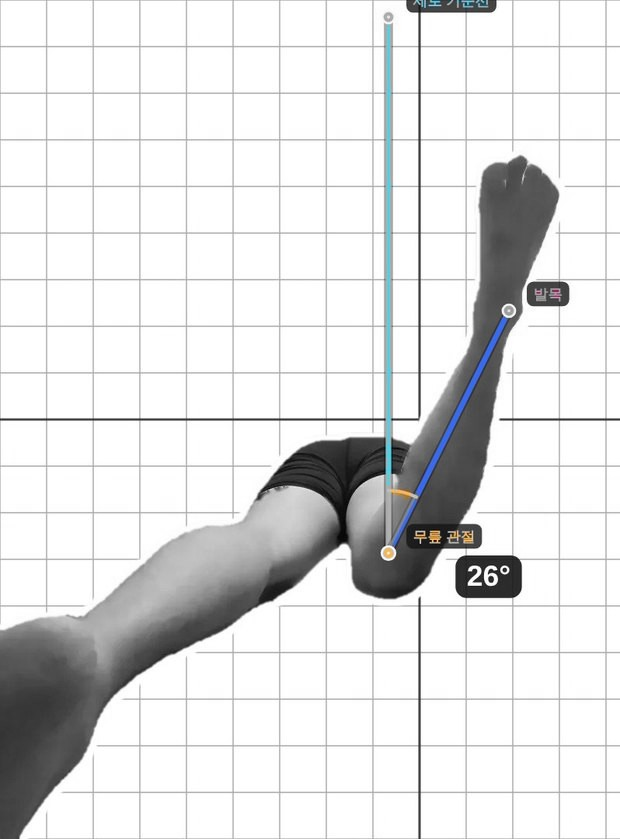
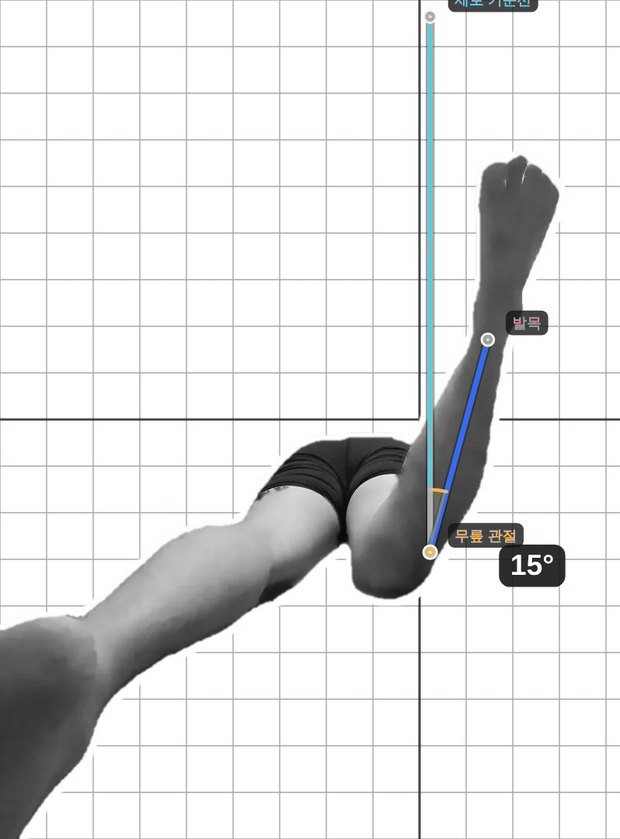
v220 인식 규칙 변경: 어깨 외·내회전(팔꿈치·손목), 고관절 외·내회전(윤곽으로 든 다리 찾기), 발목 배측·저측(비골·발바닥·발끝) · 측정가이드 사진 갱신
Claude-Session: https://claude.ai/code/session_01SyvR6sAvATGj34E46qdu2f

Changed region(s): [[0.6129, 0.0, 0.9194, 0.7128]]

diff --git a/index.html b/index.html
@@ -8549,7 +8549,7 @@
     q.textContent = !ok ? "자동 인식 실패 · 두 점을 직접 맞춰주세요" : lv === "good" ? "✓ 자동 인식 정확도 높음 (" + Math.round(romS.q * 100) + "%) · 점 위치만 확인하세요" : lv === "mid" ? "자동 인식 정확도 보통 (" + Math.round(romS.q * 100) + "%) · 점 위치를 확인해 주세요" : "관절이 가려져 정확도 낮음 (" + Math.round(romS.q * 100) + "%) · 점을 직접 맞춰주세요";
     if(ok && romS.roll != null && Math.abs(romS.roll) >= 0.3) q.textContent += " · 폰 기울기 " + romS.roll.toFixed(1) + "° 자동 보정";
     if(romS.img && !romS.cut && !romS.maskP) romS.maskP = romMakeCut();
-    else if(romS.mask && ok && romJoint().k !== "scol"){ try{ romRefine(romS.mask); }catch(e){} romDraw(); }
+    else if(romS.mask && (ok || romLimbJoint()) && romJoint().k !== "scol"){ try{ romRefine(romS.mask); }catch(e){ console.warn("[refine]", e); } romDraw(); }
     if(msg) toast(msg);
   }
   $("btnRomAuto").addEventListener("click", romAuto);
@@ -9147,15 +9147,22 @@
       romS.mask = good ? m : null;
       try{ romS.cut = romCutBuild(img, m, romS.L); }catch(e){ console.warn("[cut]", e); romS.cut = null; }
       romS.cutDone = true;
-      if(good && romS.autoPts && romJoint().k !== "scol"){ try{ romRefine(m); }catch(e){ console.warn("[refine]", e); } }
+      if(good && (romS.autoPts || (romLimbJoint() && !romS.touched)) && romJoint().k !== "scol"){ try{ romRefine(m); }catch(e){ console.warn("[refine]", e); } }
       if(romS.pts) romDraw();
       return m;
     }).catch(function(){ romS.cutDone = true; return null; });
   }
   /* ===== v88 자동 측정점 정밀 보정 (인물 윤곽 이용) =====
      허리: 장골능·등 최고점을 실제 등 윤곽 위로 / 목: 목 앞·뒤 윤곽의 정중앙 / 정수리: 머리 윤곽 끝 / 손가락 끝: 손 윤곽 끝 */
+  function romLimbJoint(){ var J = romJoint(), mv = romMove(); return !!mv && ((J.k === "hip" && (mv.k === "er" || mv.k === "ir")) || J.k === "ankle"); }   // v220 윤곽으로 찾는 항목
   function romRefine(m){
-    var P = romS.pts, L = romS.L, W = romS.w, H = romS.h; if(!P || !L) return;
+    var P = romS.pts, L = romS.L, W = romS.w, H = romS.h; if(!P) return;
+    if(!L){   // v220 관절 인식이 실패해도 고관절 회전·발목은 윤곽만으로
+      if(!romLimbJoint()) return;
+      var lf0 = romLimbFix(m, romPts(), null, rom.side);
+      if(lf0){ lf0.forEach(function(q, i){ if(q) P[i] = q; }); if(P.length > 2 && !romIsLm(romPts()[2]) && !romS.refCustom) P[2] = romSynthA(romPts()[2], P[0], P[1], null, W, H, romS.roll); romS.autoPts = true; romS.autoOk = true; }
+      return;
+    }
     var pn = romPts(), side = rom.side;
     var inside = function(p){ if(p.x < 0 || p.y < 0 || p.x >= W || p.y >= H) return false; return m.data[Math.min(m.h - 1, Math.floor(p.y * m.h / H)) * m.w + Math.min(m.w - 1, Math.floor(p.x * m.w / W))] > 0.45; };
     var step = Math.max(W, H) / 400;
@@ -9242,8 +9249,122 @@
       var wr = romGet("wrist", L, side), fg = romGet("finger", L, side);
       if(wr && fg){ var u2 = nrm({ x: fg.x - wr.x, y: fg.y - wr.y }), tip = edge(fg, u2, body * 0.35); if(tip) setPt(1, tip); }
     }
+    // v220 관리자 피드백(회원 1차) 반영: 누워서 찍는 고관절 회전·발목, 팔꿈치 90° 어깨 회전은 관절 인식이 자주 엉뚱한 곳을 잡음 → 사람 윤곽으로 다시 찾기
+    var lf = romLimbFix(m, pn, L, side);
+    if(lf) lf.forEach(function(q, i){ if(q) setPt(i, q); });
     if(changed && romS.autoPts) romLearnAdj(moved);   // v203 윤곽으로 새로 놓인 점에도 학습 보정
     if(changed && pn.length > 2 && !romIsLm(pn[2]) && !romS.refCustom) P[2] = romSynthA(pn[2], P[0], P[1], L, W, H, romS.roll);   // v190 거북목(점 2개)은 기준점 없음
+  }
+  /* ===== v220 윤곽 기반 측정점 (관리자 기준) =====
+     ① 고관절 외·내회전(엎드려 무릎 90°): 위로 든 아래다리를 윤곽에서 직접 찾음 (좌·우 다리를 헷갈리지 않게)
+        - 발목 = 발과 다리가 이어지는 곳(아래다리에서 가장 가는 곳)의 중앙 · 무릎 = 아래다리 축을 따라 내려간 끝(슬개골 정중앙)
+     ② 발목 배측·저측굴곡(누워서 옆에서): 다리 윤곽을 발끝 쪽부터 따라감
+        - 비골 = 무릎(다리 윗선의 가장 높은 곳)에서 발 쪽으로 조금 · 다리 뒤쪽(아래쪽)
+        - 발바닥 = 비골 → 외측 복사뼈 후면 직선을 발 쪽으로 늘려 발바닥 윤곽과 만나는 곳
+        - 발끝 = 발바닥을 따라 새끼발가락 앞 MTP 관절 끝
+     ③ 어깨 외·내회전: 팔꿈치 = 아래팔 축을 따라 몸 쪽 끝(팔꿈치)까지 · 손목 = 아래팔과 손바닥 사이 */
+  function romLimbFix(m, pn, L, side){
+    var J = romJoint(), mv = romMove(); if(!m || !mv) return null;
+    var MW = m.w, MH = m.h, W = romS.w, H = romS.h, sx = W / MW, sy = H / MH;
+    var at = function(x, y){ x = Math.round(x); y = Math.round(y); return x >= 0 && y >= 0 && x < MW && y < MH && m.data[y * MW + x] > 0.45; };
+    var runs = function(y){ var out = [], x = 0; while(x < MW){ if(at(x, y)){ var a = x; while(x < MW && at(x, y)) x++; out.push({ a: a, b: x - 1, c: (a + x - 1) / 2, w: x - a }); } else x++; } return out; };
+    var cruns = function(x){ var out = [], y = 0; while(y < MH){ if(at(x, y)){ var a = y; while(y < MH && at(x, y)) y++; out.push({ a: a, b: y - 1, c: (a + y - 1) / 2, w: y - a }); } else y++; } return out; };
+    var img = function(p){ return { x: p.x * sx, y: p.y * sy }; };
+    var march = function(p, d, maxL){ var q = null; for(var t = 0; t < maxL; t += 0.5){ var x = p.x + d.x * t, y = p.y + d.y * t; if(!at(x, y)) return q; q = { x: x, y: y }; } return q; };
+    var nrm = function(v){ var l = Math.hypot(v.x, v.y) || 1; return { x: v.x / l, y: v.y / l }; };
+    // ① 고관절 외·내회전
+    if(J.k === "hip" && (mv.k === "er" || mv.k === "ir")){
+      var top = -1; for(var y = 0; y < MH && top < 0; y++){ if(runs(y).some(function(r){ return r.w < MW * 0.25; })) top = y; }
+      if(top < 0) return null;
+      var r0 = runs(top).filter(function(r){ return r.w < MW * 0.25; })[0], rows = [], cx = r0.c, pw = r0.w;
+      for(var yy = top; yy < MH; yy++){
+        var rr = runs(yy), best = null, bd = 1e9;
+        rr.forEach(function(r){ var d = Math.abs(r.c - cx); if(r.a - 2 <= cx + pw * 0.6 && r.b + 2 >= cx - pw * 0.6 && d < bd){ bd = d; best = r; } });
+        if(!best || best.w > MW * 0.3) break;
+        rows.push({ y: yy, c: best.c, w: best.w }); cx = best.c; pw = Math.max(best.w, 4);
+      }
+      if(rows.length < MH * 0.12) return null;
+      // 아래다리 축 = 위에서 15~70% 구간 중심선 · 축을 따라 내려가며 '축에 수직인 폭'을 잼 (다리가 기울어도 정확)
+      var n = rows.length, seg = rows.slice(Math.round(n * 0.15), Math.max(Math.round(n * 0.15) + 3, Math.round(n * 0.7)));
+      var my = seg.reduce(function(t, r){ return t + r.y; }, 0) / seg.length, mc = seg.reduce(function(t, r){ return t + r.c; }, 0) / seg.length, num = 0, den = 0;
+      seg.forEach(function(r){ num += (r.y - my) * (r.c - mc); den += (r.y - my) * (r.y - my); });
+      var u = nrm({ x: den ? num / den : 0, y: 1 }), nv = { x: -u.y, y: u.x }, prof = [], c = { x: rows[0].c, y: rows[0].y };
+      for(var k = 0; k < MH * 0.75; k++){
+        var pp = k ? { x: c.x + u.x * 2, y: c.y + u.y * 2 } : c;
+        var e1 = march(pp, nv, MW * 0.3), e2 = march(pp, { x: -nv.x, y: -nv.y }, MW * 0.3);
+        if(!e1 || !e2){ if(k > 3) break; c = pp; continue; }
+        var wv = Math.hypot(e1.x - e2.x, e1.y - e2.y), mid = { x: (e1.x + e2.x) / 2, y: (e1.y + e2.y) / 2 };
+        if(prof.length > 10){ var mxw = 0; for(var z = 0; z < Math.max(1, prof.length >> 1); z++) mxw = Math.max(mxw, prof[z].w); if(wv > mxw * 2.5) break; }
+        prof.push({ p: mid, w: wv }); c = mid;
+      }
+      var m2 = prof.length; if(m2 < 12) return null;
+      var lo = Math.max(1, Math.round(m2 * 0.08)), hi2 = Math.max(lo + 1, Math.round(m2 * 0.45)), ai = lo;
+      for(var i = lo; i < Math.min(hi2, m2); i++) if(prof[i].w < prof[ai].w) ai = i;   // 발목 = 발과 다리 사이 가장 가는 곳
+      var A0 = prof[ai].p, ws = prof.slice(ai, ai + Math.max(5, Math.round(m2 / 3))).map(function(q){ return q.w; }).sort(function(a, b){ return a - b; }), cw = ws[ws.length >> 1] || 6;
+      var kEdge = march(A0, u, MH * 1.2); if(!kEdge) return null;
+      var K = { x: kEdge.x - u.x * cw * 0.3, y: kEdge.y - u.y * cw * 0.3 };   // 무릎 = 아래다리 축 끝에서 조금 안쪽 (슬개골 정중앙)
+      if(Math.hypot(K.x - A0.x, K.y - A0.y) < MH * 0.08) return null;
+      return [img(K), img(A0)];
+    }
+    // ② 발목 배측·저측굴곡
+    if(J.k === "ankle" && pn[0] === "sole"){
+      var hp = [L && L[23], L && L[24]].filter(function(q){ return q && q.v > 0.5; });
+      var colsAll = []; for(var x = 0; x < MW; x++){ if(cruns(x).length) colsAll.push(x); }
+      if(colsAll.length < MW * 0.2) return null;
+      var mx0 = colsAll[0], mx1 = colsAll[colsAll.length - 1], midX = (mx0 + mx1) / 2;
+      var dirF = hp.length ? (hp.reduce(function(t, q){ return t + q.x; }, 0) / hp.length / sx > midX ? -1 : 1) : (side === "R" ? 1 : -1);   // 발 쪽 = 고관절 반대쪽
+      var x0 = dirF < 0 ? mx0 : mx1, cols = [], cy = null, pw2 = null;
+      for(var k = 0; k < colsAll.length; k++){
+        var xx = x0 - dirF * k; if(xx < 0 || xx >= MW) break;
+        var rs = cruns(xx); if(!rs.length) break;
+        var bst = null, bd2 = 1e9;
+        rs.forEach(function(r){ var d = cy == null ? -r.w : Math.abs(r.c - cy); if(cy == null || (r.a - 2 <= cy + pw2 * 0.7 && r.b + 2 >= cy - pw2 * 0.7)){ if(d < bd2){ bd2 = d; bst = r; } } });
+        if(!bst) break;
+        if(cols.length > MW * 0.15){ var ws2 = cols.slice(-Math.round(MW * 0.08)).map(function(q){ return q.w; }).sort(function(a, b){ return a - b; }); if(bst.w > ws2[ws2.length >> 1] * 1.7) break; }   // 반대쪽 다리·몸과 겹치기 시작하면 멈춤
+        cols.push({ x: xx, a: bst.a, b: bst.b, c: bst.c, w: bst.w }); cy = bst.c; pw2 = Math.max(bst.w, 4);
+      }
+      var nc = cols.length; if(nc < MW * 0.2) return null;
+      // 발뒤꿈치~발 = 앞쪽 25% 안에서 가장 두꺼운 곳, 발목 = 그 뒤 가장 가는 곳
+      var hi = 0; for(var q1 = 0; q1 < Math.round(nc * 0.25); q1++) if(cols[q1].w > cols[hi].w) hi = q1;
+      var ak = Math.min(nc - 1, hi + 1); for(var q2 = hi + 1; q2 < Math.min(nc, hi + Math.round(nc * 0.25)); q2++) if(cols[q2].w < cols[ak].w) ak = q2;
+      // 무릎 = 발목에서 멀어지며 다리 윗선이 가장 높은 곳 (발목~끝 사이)
+      var kn = ak; for(var q3 = ak + Math.round(nc * 0.1); q3 < nc; q3++) if(cols[q3].a < cols[kn].a) kn = q3;
+      if(kn - ak < nc * 0.15) kn = Math.min(nc - 1, ak + Math.round(nc * 0.45));
+      var fi = Math.max(ak + 1, kn - Math.round((kn - ak) * 0.08)), fc = cols[fi];
+      // 비골두 후면: 무릎에서 발 쪽으로 조금 내려온 곳의 다리 뒤쪽(아래쪽) 윤곽에서 다리 두께의 20% 안쪽
+      var lax = nrm({ x: cols[ak].x - fc.x, y: cols[ak].c - fc.c }), pd = { x: -lax.y, y: lax.x }; if(pd.y < 0) pd = { x: -pd.x, y: -pd.y };
+      var fb = march({ x: fc.x, y: fc.c }, pd, fc.w * 1.5) || { x: fc.x, y: fc.b };
+      var Fib = { x: fb.x - pd.x * fc.w * 0.2, y: fb.y - pd.y * fc.w * 0.2 };
+      var ac = cols[ak], Mal = { x: ac.x, y: ac.a + ac.w * 0.72 };     // 외측 복사뼈 후면
+      var ul = nrm({ x: Mal.x - Fib.x, y: Mal.y - Fib.y });
+      var Sole = march(Mal, ul, MW); if(!Sole) return null;
+      // 발끝: 발 영역에서 발목과 가장 먼 점(발가락 끝) → 발바닥에서 그쪽으로 75% (제5 MTP), 발바닥 윤곽까지
+      var Tip = null, td = -1;
+      for(var q4 = 0; q4 <= hi + Math.round(nc * 0.06) && q4 < nc; q4++){ [cols[q4].a, cols[q4].b].forEach(function(yv){ var d = Math.hypot(cols[q4].x - ac.x, yv - ac.c); if(d > td){ td = d; Tip = { x: cols[q4].x, y: yv }; } }); }
+      if(!Tip) return null;
+      var Pm = { x: Sole.x + (Tip.x - Sole.x) * 0.75, y: Sole.y + (Tip.y - Sole.y) * 0.75 }, fd = nrm({ x: Tip.x - Sole.x, y: Tip.y - Sole.y });
+      var pn2 = { x: -fd.y, y: fd.x }; if(pn2.x * dirF + pn2.y * 0.6 < 0) pn2 = { x: -pn2.x, y: -pn2.y };   // 발바닥 쪽 = 발끝 방향·아래쪽
+      var T5 = march(Pm, pn2, MW * 0.2) || Pm;
+      return [img(Sole), img(T5), img(Fib)];
+    }
+    // ③ 어깨 외·내회전: 팔꿈치·손목
+    if(J.k === "shoulder" && (mv.k === "er" || mv.k === "ir") && L){
+      var si = side === "R" ? 1 : 0, e = L[13 + si], w = L[15 + si]; if(!e || !w) return null;
+      var E = { x: e.x / sx, y: e.y / sy }, Wr = { x: w.x / sx, y: w.y / sy }, fa = Math.hypot(E.x - Wr.x, E.y - Wr.y); if(fa < 4) return null;
+      var uf = nrm({ x: E.x - Wr.x, y: E.y - Wr.y }), out2 = [null, null];
+      var ee = march(E, uf, fa * 1.6);
+      if(ee){
+        var nv = { x: -uf.y, y: uf.x }, p1 = march(E, nv, fa), p2 = march(E, { x: -nv.x, y: -nv.y }, fa), fw = (p1 && p2) ? Math.hypot(p1.x - p2.x, p1.y - p2.y) : fa * 0.25;
+        var El = { x: ee.x - uf.x * fw * 0.4, y: ee.y - uf.y * fw * 0.4 };
+        if(Math.hypot(El.x - Wr.x, El.y - Wr.y) > fa * 0.7) out2[0] = img(El);
+      }
+      var kx = [L[17 + si], L[19 + si]].filter(function(q){ return q && q.v > 0.3; });
+      if(kx.length){ var Kn = { x: kx.reduce(function(t, q){ return t + q.x; }, 0) / kx.length / sx, y: kx.reduce(function(t, q){ return t + q.y; }, 0) / kx.length / sy }, hl = Math.hypot(Kn.x - Wr.x, Kn.y - Wr.y);
+        out2[1] = img({ x: Wr.x + uf.x * hl * 0.35, y: Wr.y + uf.y * hl * 0.35 }); }   // 손목 = 아래팔과 손바닥 사이 (손가락 쪽으로 넘어가지 않게)
+      else out2[1] = img({ x: Wr.x + uf.x * fa * 0.05, y: Wr.y + uf.y * fa * 0.05 });
+      return out2;
+    }
+    return null;
   }
   // 임의 사진 → 인물만 남긴 캔버스 (격자 배경용)
   // 저장된 기록 사진의 격자 배경: 인물 분리 + (v135) 측정점 기반 영역으로 보완 — 측정 화면(v133·v134)과 같은 방식
@@ -10524,7 +10645,7 @@
   function romGdPrep(){
     romCam.gd = null;
     var J = romJoint(), mv = romMove(); if(!mv || !ROM_GD[J.k + "|" + mv.k]) return;
-    var sd = romSd(J, mv), src = "guide/rom/" + J.k + "_" + sd + "_" + mv.k + ".jpg?v=205", im = new Image();   // v205 흑백 가이드
+    var sd = romSd(J, mv), src = "guide/rom/" + J.k + "_" + sd + "_" + mv.k + ".jpg?v=220", im = new Image();   // v205 흑백 가이드
     im.onload = function(){ if(romCam.gd && romCam.gd.src === src) romCam.gd.ok = true; };
     romCam.gd = { src: src, im: im, ok: false }; im.src = src;
   }
@@ -10786,7 +10907,7 @@
   function daysLeft(k){ var a = new Date(+k.slice(0, 4), +k.slice(4, 6) - 1, +k.slice(6, 8)), t = new Date(); t.setHours(0, 0, 0, 0); return Math.round((a - t) / 864e5); }
   function licValid(){ return !!(LIC && LIC.ok && LIC.dev === deviceId() && LIC.exp && todayKey() <= LIC.exp); }
   /* v94 Google Play(TWA)에서 실행됐는지 감지 → 앱 안 결제 안내 숨김 */
-  var APP_VER = "v219";   // v194 앱 버전 (한 곳에서 관리 · 홈 맨 아래와 각 측정 화면 안내에 표시)
+  var APP_VER = "v220";   // v194 앱 버전 (한 곳에서 관리 · 홈 맨 아래와 각 측정 화면 안내에 표시)
   var PLAY_PKG = "com.physiomaster.posture";
   (function(){ var e = $("appVer"); if(e) e.textContent = "아요바디요 " + APP_VER; document.querySelectorAll(".app-ver-note").forEach(function(x){ x.textContent = "앱 버전 " + APP_VER; }); })();
   function isPlayApp(){
@@ -12722,7 +12843,7 @@
     var G = PT_GUIDE[state.mode === "side" ? "side" : "front"];
     $("ptGuideTitle").textContent = G.title; $("ptGuideSub").textContent = G.sub;
     $("ptGuideBody").innerHTML = '<div class="pg-pose"><b>측정 자세</b> · ' + G.pose + '</div>' +
-      '<div class="pg-pics">' + G.imgs.map(function(src, i){ return '<figure><img src="' + src + '?v=205" alt="표시점 위치 예시 ' + (i + 1) + '"></figure>'; }).join("") + '</div>' +
+      '<div class="pg-pics">' + G.imgs.map(function(src, i){ return '<figure><img src="' + src + '?v=220" alt="표시점 위치 예시 ' + (i + 1) + '"></figure>'; }).join("") + '</div>' +
       '<ul class="pg-list">' + G.pts.map(function(p){ return '<li><i style="background:' + p[1] + '"></i><b>' + p[0] + '</b><span>' + p[2] + '</span></li>'; }).join("") + '</ul>' +
       '<p class="pg-tip">사진을 누르면 크게 볼 수 있어요.</p>';
     $("ptGuideBody").querySelectorAll(".pg-pics figure").forEach(function(f){ f.addEventListener("click", function(){ f.classList.toggle("big"); }); });
@@ -12801,7 +12922,7 @@
     var G = ROM_GD[J.k + "|" + mv.k]; if(!G) return;
     var sd = romSd(J, mv), lr = sd !== "C";
     if(romGdSide == null || !lr) romGdSide = lr ? sd : "C";
-    var src = "guide/rom/" + J.k + "_" + romGdSide + "_" + mv.k + ".jpg?v=205";   // v202 새 기준 실루엣 사진으로 교체
+    var src = "guide/rom/" + J.k + "_" + romGdSide + "_" + mv.k + ".jpg?v=220";   // v202 새 기준 실루엣 사진으로 교체
     $("ptGuideTitle").textContent = "측정가이드 · " + J.n + " " + mv.n;
     $("ptGuideSub").textContent = (lr ? (romGdSide === "R" ? "우측" : "좌측") + " 예시 · " : "") + "측정점 3개 · 측정선 2개";
     var pts = romPts(), nm = function(i){ return ROM_PART[pts[i]] || ROM_PTNAME[pts[i]] || ""; };

diff --git a/sw.js b/sw.js
@@ -1,7 +1,7 @@
 /* AYO체형분석 — 서비스워커
    - 화면(index.html): 네트워크 우선 → GitHub에 올린 최신 버전이 바로 반영되고, 인터넷이 끊기면 저장본으로 열림
    - 인식 모델·라이브러리(MediaPipe)·글꼴: 한 번 받으면 폰에 저장해 두고 재사용 → 두 번째부터 빠르고 오프라인에서도 동작 */
-const VERSION = "pma-v168";   // v219 척추 균형 자세 안내 · 거북목 측정가이드
+const VERSION = "pma-v169";   // v220 어깨·고관절 회전·발목 인식 규칙 (윤곽 기반)
 const SHELL = "pma-shell-" + VERSION;
 const ASSETS = "pma-assets-v1";   // 모델 파일은 버전과 무관하게 유지(약 25MB 재다운로드 방지)
 const SHELL_FILES = ["./", "./index.html", "./manifest.webmanifest",
